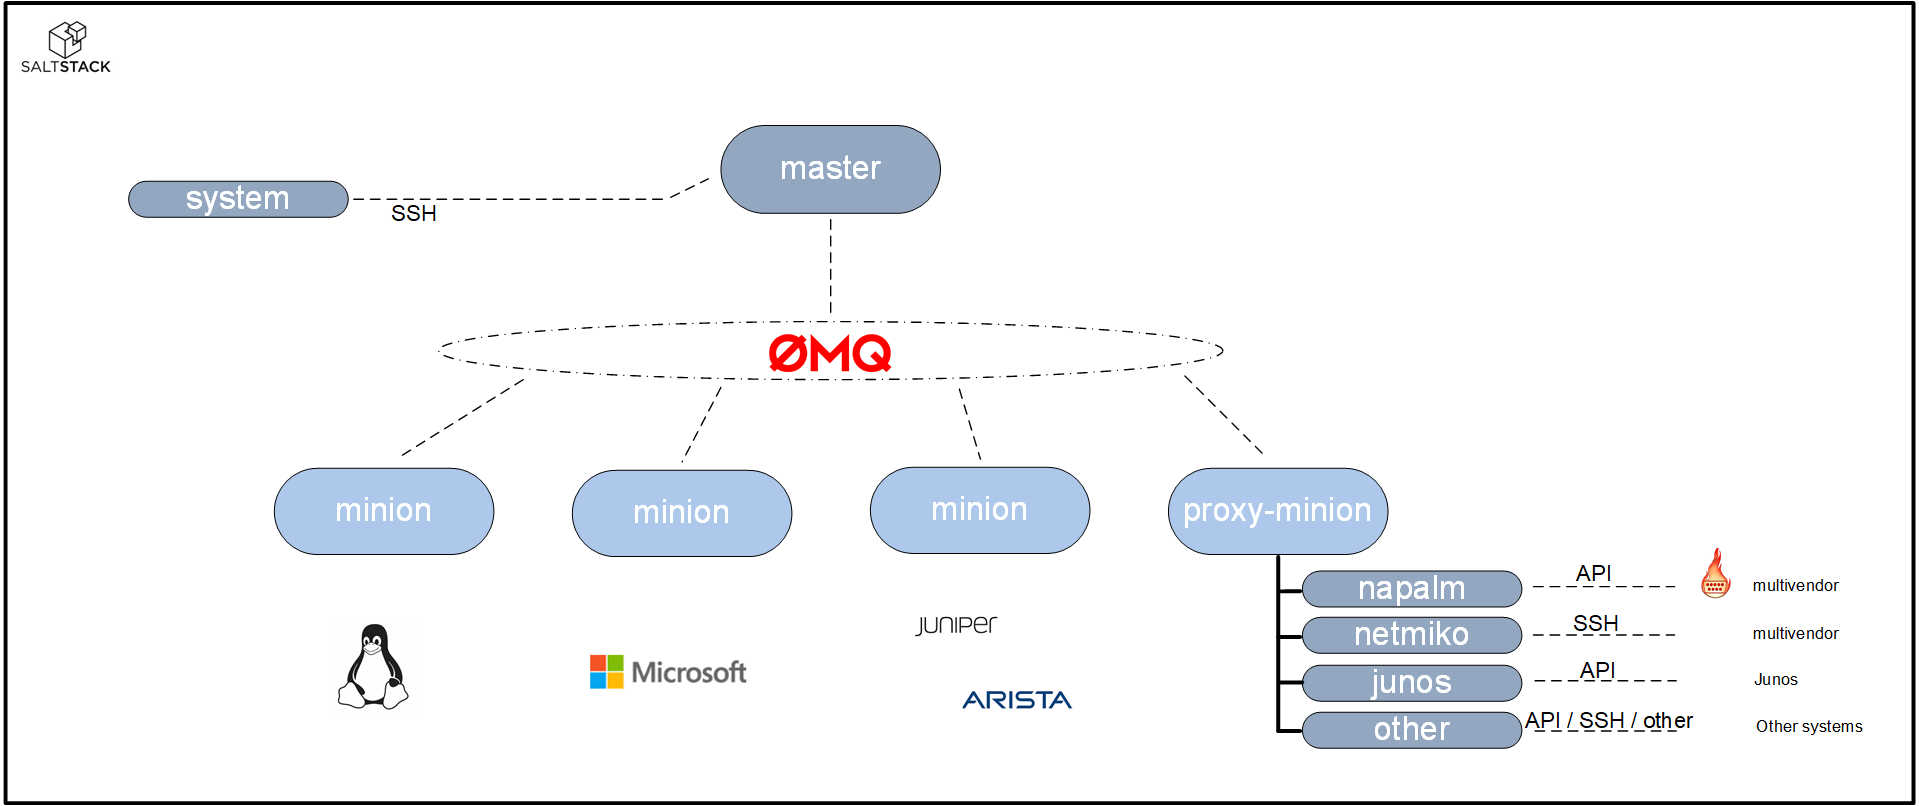
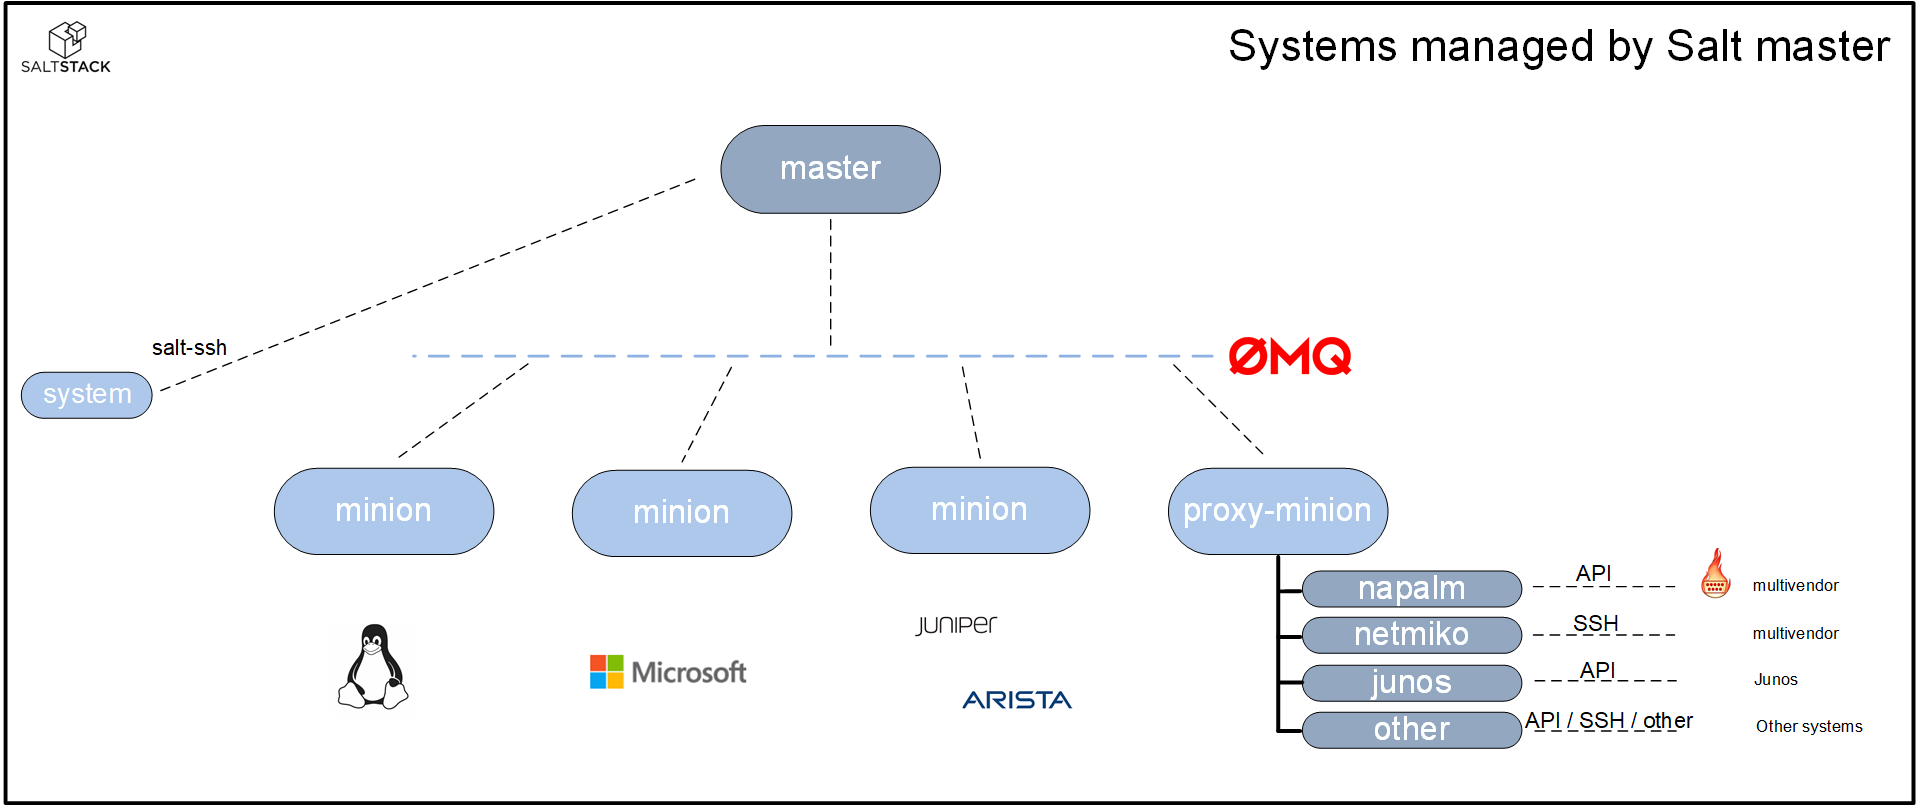
adding pics and stuff

diff --git a/_posts/2020-3-16-saltstack-overview.md b/_posts/2020-3-16-saltstack-overview.md
@@ -39,6 +39,11 @@ SaltStack comes with its own set of terms and terminology and this can be a bit 
 ![SaltStack architecture](/img/saltstack-architecture.png  "SaltStack architecture" )
 {: refdef}
 
+
+{:refdef: style="text-align: center;"}
+![SaltStack architecture](/img/saltstack_architecture.png  "SaltStack architecture" )
+{: refdef}
+
 Perhaps a little overwhelming at first, but really great to work with after you wrap your head around it. I sometimes distinguish between the core components of Salt that we put to work for us and the parts we use to interface with those core components. High-level, we could divide everything up like this:
 
 **SaltStack core components**:
